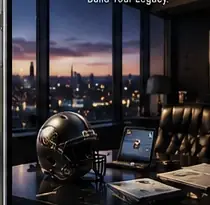
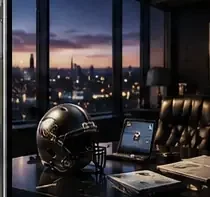
Polish compact help controls, clean office artwork and verify actual mobile profile flows

diff --git a/broadcastScreens.css b/broadcastScreens.css
@@ -103,8 +103,13 @@
 .bk-screen[data-page="picks"] .bk-picks-toolbar { top:calc(124px + env(safe-area-inset-top)); }
 @media(min-width:768px){.bk-screen[data-page="owner"] .bk-owner-tabs,.bk-screen[data-page="picks"] .bk-picks-toolbar { top:calc(168px + env(safe-area-inset-top)); }}
 .bk-screen[data-scene="office"] .bk-scene-art,.bk-screen[data-scene="suite"] .bk-scene-art { background-size:100% auto; }
-.bk-scene-actions>button:has(.lucide-circle-help) { font-size:0; padding-inline:0; min-width:40px; }
-.bk-scene-actions>button:has(.lucide-circle-help) svg { width:17px; height:17px; }
+.bk-scene-actions>.bk-mode-guide-button { font-size:0; padding-inline:0; min-width:40px; }
+.bk-scene-actions>.bk-mode-guide-button svg { width:17px; height:17px; }
 .bk-scene-title :is(h1,p) { position:relative; }
 @media(max-width:359px){.bk-news-refresh span { display:none; }}
 @media(min-width:768px){.bk-screen[data-scene="office"] .bk-scene-art,.bk-screen[data-scene="suite"] .bk-scene-art { background-size:cover; }}
+
+/* Keep help controls compact despite the base button font reset. */
+.bk-screen .bk-mode-guide-button { min-height:40px; padding:0 10px; gap:6px; font-size:10px; font-weight:800; line-height:1.4; letter-spacing:.035em; flex-shrink:0; }
+.bk-screen .bk-mode-guide-button svg { width:16px; height:16px; }
+.bk-scene-actions>.bk-mode-guide-button { min-width:40px; padding-inline:0; justify-content:center; font-size:0; gap:0; }

diff --git a/BroadcastScene.tsx b/BroadcastScene.tsx
@@ -35,8 +35,8 @@ export function BroadcastStage({scene,page,quiet=false,className='',children}:{s
   };
   const moving=enabled&&!reduce&&!quiet&&!focused&&visible&&onScreen;
   return <MotionContext.Provider value={{enabled,reduced:reduce,quiet:quiet||focused,toggle}}>
-    <div ref={ref} className={`bk-screen ${className}`} data-scene={scene} data-page={page} data-motion={moving?'on':'off'} data-quiet={quiet?'true':'false'}>
-      <div className="bk-scene-backdrop" aria-hidden="true">
+    <div className={`bk-screen ${className}`} data-scene={scene} data-page={page} data-motion={moving?'on':'off'} data-quiet={quiet?'true':'false'}>
+      <div ref={ref} className="bk-scene-backdrop" aria-hidden="true">
         <div className="bk-scene-art"/>
         <div className="bk-scene-architecture"><i/><i/><i/></div>
         <div className="bk-scene-beam bk-scene-beam-left"/><div className="bk-scene-beam bk-scene-beam-right"/>

diff --git a/ModeGuide.tsx b/ModeGuide.tsx
@@ -32,7 +32,7 @@ export const ModeGuide: React.FC<Props> = ({ storageKey, title, summary, steps }
   </div> : null;
 
   return <>
-    <button type="button" onClick={() => setOpen(true)} className="inline-flex min-h-11 items-center gap-2 rounded-full border border-white/10 bg-black/40 px-4 text-[10px] font-black uppercase tracking-wider text-zinc-300">
+    <button type="button" onClick={() => setOpen(true)} className="bk-mode-guide-button inline-flex min-h-11 items-center gap-2 rounded-full border border-white/10 bg-black/40 px-4 text-[10px] font-black uppercase tracking-wider text-zinc-300">
       <CircleHelp className="h-4 w-4" /> How it works
     </button>
     {guide ? createPortal(guide, document.body) : null}

diff --git a/docs/design/ALL_SCREENS_BROADCAST.md b/docs/design/ALL_SCREENS_BROADCAST.md
@@ -27,7 +27,7 @@ The news component is still one shared lazy-loaded component in the existing nav
 
 ## Artwork
 
-Home's disclosed 249x158 stadium crop is preserved. The office/suite WebP is a 210x205 crop (x790,y307 to x1000,y512) of the supplied generated concept collage; it is not a new high-resolution photograph or an NFL photo license. CSS supplies the studio/tunnel/locker geometry and lighting. Existing original trophy imagery is reused. Small source crops may look soft on large displays; no pixel-exact match to all generated phones is claimed.
+Home's disclosed 249x158 stadium crop is preserved. The office/suite WebP is a 210x197 text-free crop (x790,y315 to x1000,y512; eight upper pixels trimmed from the existing WebP) of the supplied generated concept collage; it is not a new high-resolution photograph or an NFL photo license. CSS supplies the studio/tunnel/locker geometry and lighting. Existing original trophy imagery is reused. Small source crops may look soft on large displays; no pixel-exact match to all generated phones is claimed.
 
 ## Verification
 
